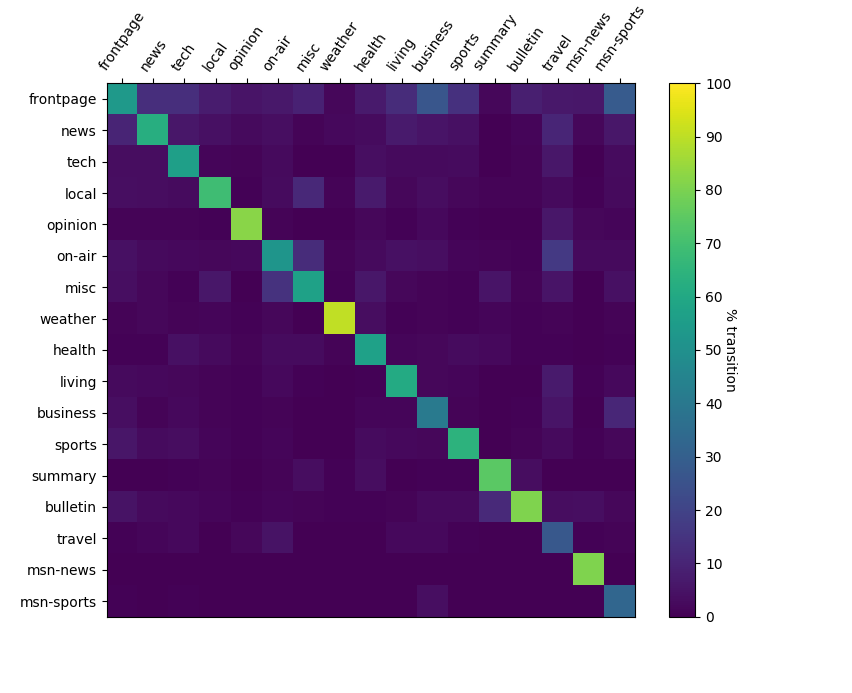
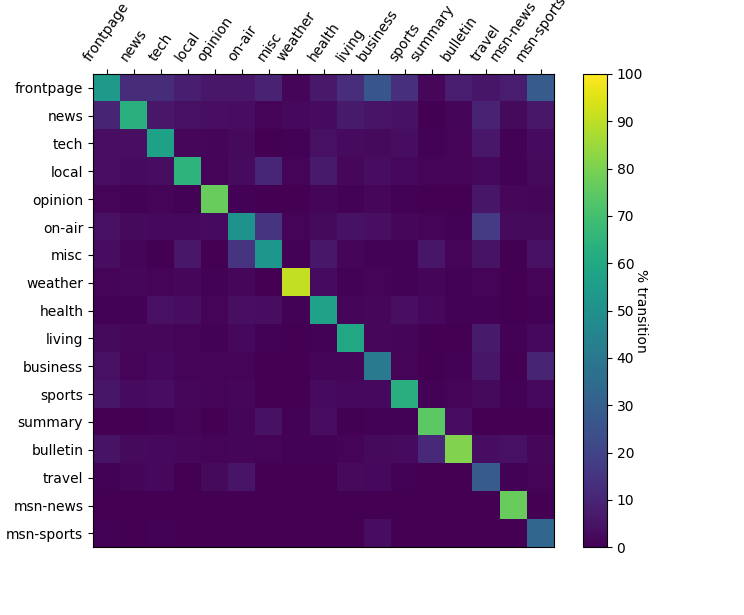
normalised data, added web entry category graphs

diff --git a/init_read.py b/init_read.py
@@ -5,17 +5,16 @@ import numpy as np
 from scipy import stats
 
 from readfile import readData
-from plot_request_len import plotLen, boxplotLen # plot user request lengths
-from singleRequest import single_request, plot_single_request_cat # single-page requests
+from plot_request_len import plotLen, boxplotLen, plot_requestLen # plot user request lengths
+from singleRequest import single_request, pie_singReqst_cat, singReqst_cat_adj # single-page requests
 from transitMatrix import gen_transitMat, transHeatMap # transition matrix of categories
-import categoryBin
+import categoryBin # page request count by category
+from categryData import webEntry
 
 pg_raw, pg_category = readData('msnbc990928.seq')
 
 ## Session length data
 sessLength = np.array ( [ len(i) for i in pg_raw ] )
-
-sessLength_stats = {'mean': np.mean(sessLength), 'median': np.median(sessLength), 'mode': stats.mode(sessLength), '75Pct': np.percentile(sessLength, 75), '90Pct': np.percentile(sessLength, 90), '95Pct': np.percentile(sessLength, 95), '99Pct': np.percentile(sessLength, 99), '99_5Pct': np.percentile(sessLength, 99.5)   }
 
 sessLength_stats = {'mean': np.mean(sessLength), 'median': np.median(sessLength), \
 'mode': stats.mode(sessLength), '75Pct': np.percentile(sessLength, 75), \
@@ -25,23 +24,42 @@ sessLength_stats = {'mean': np.mean(sessLength), 'median': np.median(sessLength)
 #plotLen(sessLength)
 #boxplotLen(sessLength)
 
-pg99Pct = [ i for i in pg_raw if len(i) < sessLength_stats["99Pct"] ]
+#pg99Pct = [ i for i in pg_raw if len(i) < sessLength_stats["95Pct"] ]
 
-## Singlflatten.e page requests
-one_category, one_cat_bins = single_request(pg99Pct)
-#plot_single_request_cat(one_cat_bins, pg_category)
+pg99Pct = [ i for i in pg_raw if (len(i) >= sessLength_stats["95Pct"] and len(i) < sessLength_stats["95Pct"])  ]
+
+
+sessLength99 = np.array ( [ len(i) for i in pg99Pct ] )
+
+sessLength99_stats = {'mean': np.mean(sessLength99), 'median': np.median(sessLength99), \
+'mode': stats.mode(sessLength99), '75Pct': np.percentile(sessLength99, 75), \
+'90Pct': np.percentile(sessLength99, 90), '95Pct': np.percentile(sessLength99, 95), \
+'99Pct': np.percentile(sessLength99, 99), '99_5Pct': np.percentile(sessLength99, 99.5)   }
+
+print sessLength99_stats
+
+'''
+boxplotLen(sessLength99)
+plot_requestLen(sessLength99)
 
 ## Page request by category
 category_bin = categoryBin.total_cat_bin(pg99Pct)
 rm_consec_bin, rm_consecut_pg = categoryBin.rm_consecut_bin(pg99Pct)
 rm_re_bin = categoryBin.rm_repeat_bin(pg99Pct)
-#categoryBin.plotCatBin(category_bin, rm_consec_bin, rm_re_bin, pg_category)
+categoryBin.plotCatBin(category_bin, rm_consec_bin, rm_re_bin, pg_category)
+
+## Single page requests
+one_category, one_cat_bins = single_request(pg99Pct)
+pie_singReqst_cat(one_cat_bins, pg_category)
+singReqst_cat_adj(one_cat_bins, rm_re_bin, pg_category)
 
 ## Category transition
-# transitMat = gen_transitMat(pg99Pct)
-# transHeatMap(transitMat, pg_category)
+transitMat = gen_transitMat(pg99Pct, 0)
+transHeatMap(transitMat, pg_category)
 
-transitMatRp = gen_transitMat(rm_consecut_pg)
+transitMatRp = gen_transitMat(rm_consecut_pg, 0)
 transHeatMap(transitMatRp, pg_category)
 
+webEntry(pg99Pct, rm_re_bin, pg_category)
+'''
 raw_input()

diff --git a/categoryBin.py b/categoryBin.py
@@ -3,16 +3,7 @@
 from itertools import groupby
 import numpy as np
 import matplotlib.pyplot as plt
-
-def flatten(seq,container=None):
-    if container is None:
-        container = []
-    for s in seq:
-        if hasattr(s,'__iter__'):
-            flatten(s,container)
-        else:
-            container.append(s)
-    return container
+from flatNestedList import flatten
 
 def total_cat_bin(pg99Pct):
     category_bin = np.bincount(flatten(pg99Pct))
@@ -32,17 +23,17 @@ def rm_repeat_bin(pg99Pct):
     return rm_re_bin
 
 def plotCatBin(category_bin, rm_consec_bin, rm_re_bin, pg_category):
-    middleDiff = rm_consec_bin - rm_re_bin
-    topDiff = category_bin - rm_consec_bin
-    idx = np.arange(17)
+    middleDiff = (rm_consec_bin - rm_re_bin)/ sum(category_bin)
+    topDiff = category_bin - rm_consec_bin / sum(category_bin)
+    idx = range(17)
     
     plott = plt.figure()
-    plot1 = plt.bar(idx, rm_re_bin, width = 0.4, color = (0.254902, 0.411765, 0.882353) )
+    plot1 = plt.bar(idx, rm_re_bin/sum(category_bin), width = 0.4, color = (0.254902, 0.411765, 0.882353) )
     plot2 = plt.bar(idx, middleDiff, bottom = rm_re_bin, width = 0.4, color = (0.443137, 0.776471, 0.443137) )
     plot3 = plt.bar(idx, topDiff, bottom = middleDiff+rm_re_bin, width = 0.4, color = (1, 0.843137, 0) )
     
-    plt.title('Page Request Counts by Category')
-    plt.ylabel('Occurence / page')
+    plt.title('Page Request by Category')
+    plt.ylabel('Percentage of total page counts')
     plt.xticks(idx, pg_category, rotation = 55)
     plt.legend( [plot3,plot2,plot1], ['Consecutive','Repeated','Per user'] )
     

diff --git a/abnormPG.py b/abnormPG.py
@@ -1,0 +1,36 @@
+#!/usr/bin/env python
+# coding=UTF-8
+
+import numpy as np
+from scipy import stats
+
+from readfile import readData
+from plot_request_len import boxplotLen, plot_requestLen
+import categoryBin 
+from transitMatrix import gen_transitMat, transHeatMap 
+
+pg_raw, pg_category = readData('msnbc990928.seq')
+
+sessLength = np.array ( [ len(i) for i in pg_raw ] )
+sessLength_stats = {'mean': np.mean(sessLength), 'median': np.median(sessLength), \
+'mode': stats.mode(sessLength), '75Pct': np.percentile(sessLength, 75), \
+'90Pct': np.percentile(sessLength, 90), '95Pct': np.percentile(sessLength, 95), \
+'99Pct': np.percentile(sessLength, 99), '99_5Pct': np.percentile(sessLength, 99.5)   }
+
+pg_abnorm = [ i for i in pg_raw if (len(i) >= sessLength_stats["95Pct"] and len(i) < sessLength_stats["99Pct"])  ]
+
+lenAbnorm = np.array ( [ len(i) for i in pg_abnorm ] )
+
+lenAbnorm_stats = {'mean': np.mean(lenAbnorm), 'max': np.amax(lenAbnorm), 'min': np.amin(lenAbnorm)  }
+
+# boxplotLen(lenAbnorm)
+
+category_bin = categoryBin.total_cat_bin(pg_abnorm)
+rm_consec_bin, rm_consecut_pg = categoryBin.rm_consecut_bin(pg_abnorm)
+rm_re_bin = categoryBin.rm_repeat_bin(pg_abnorm)
+# categoryBin.plotCatBin(category_bin, rm_consec_bin, rm_re_bin, pg_category)
+
+transitMat = gen_transitMat(pg_abnorm, 0)
+transHeatMap(transitMat, pg_category)
+
+raw_input()

diff --git a/singleRequest.py b/singleRequest.py
@@ -9,12 +9,22 @@ def single_request(pg_raw):
     one_cat_bins = np.delete(one_cat_bins, 0)
     return one_category, one_cat_bins
 
-def plot_single_request_cat(one_cat_bins, pg_category):
+def pie_singReqst_cat(one_cat_bins, pg_category):
     one_cat_bins.tolist
-    plot1 = plt.figure()
-    plt.bar(range(len(one_cat_bins)), one_cat_bins, width = 0.4, align = 'center', color = (0.254902, 0.411765, 0.882353) )
-    plt.xticks(range(len(pg_category)), pg_category, rotation = 55)
-    plt.xlabel("Page Category")
-    plt.ylabel("Number of Users")
+    fig, ax = plt.subplots()
+    ax.pie( one_cat_bins, labels = pg_category, autopct='%1.1f%%',  shadow=False, startangle=90 )
+    ax.axis('equal')
     plt.title("Single-Page-Request Counts by Page Categories")
-    plot1.show()
+    plt.show()
+
+def singReqst_cat_adj(one_cat_bins, rm_re_bin, pg_category):
+    data = np.true_divide(one_cat_bins, rm_re_bin)
+    plot1 = plt.figure()
+    idx = range(17)
+    plt.bar(idx, data*100, width = 0.4, color = (0.254902, 0.411765, 0.882353))
+    plt.xlabel('Categories')
+    plt.ylabel('Percentage of User / %')
+    plt.title("Percentage Single-Page-Request by Page Categories")
+    plt.xticks(idx, pg_category, rotation = 55)
+
+    plt.show()

diff --git a/transitMatrix.py b/transitMatrix.py
@@ -13,26 +13,17 @@ def pairwise(iterable):
     next(b, None)
     return izip(a, b)
 
-def gen_transitMat(pg99Pct):
+def gen_transitMat(pg99Pct, N):
     transitMat = np.zeros( (17,17) )
-    
-    '''
-    T0x = [ x[0] for x in [ i for i in pg99Pct ] ]
-    transitMat[0:,0] = np.bincount(T0x)
-
-    Tx0 = [ x[-1] for x in [ i for i in pg99Pct ] ]
-    transitMat[0,0:] = np.bincount(Tx0)
-    '''
 
     for line in pg99Pct:
         for i, j in pairwise(line):
             transitMat[j-1][i-1] = transitMat[j-1][i-1] + 1 
     
-    transitMat_sum = transitMat.sum(axis=0, keepdims=True)
+    transitMat_sum = transitMat.sum(axis = N, keepdims=True)
     transitMat = np.divide(transitMat, transitMat_sum, out=np.zeros_like(transitMat), where=transitMat_sum!=0)*100
    
-    np.savetxt("transitMat.csv", transitMat, delimiter=",")
-    np.savetxt("transitMat_sum.csv", transitMat_sum, delimiter=",")
+    #np.savetxt("transitMat1_rev.csv", transitMat, delimiter=",")
 
     return transitMat
 

diff --git a/categryData.py b/categryData.py
@@ -1,0 +1,23 @@
+#!/usr/bin/env python
+
+import numpy as np
+import matplotlib.pyplot as plt
+
+def webEntry(pg99Pct, rm_re_bin, pg_category):
+    first_Cat = [ x[0] for x in [ i for i in pg99Pct if len(i) > 1] ]
+    firstCat_bin = np.bincount(first_Cat)
+    firstCat_bin = np.delete(firstCat_bin, 0)
+
+    data = np.true_divide(firstCat_bin, rm_re_bin)
+    
+    idx = np.arange(17)
+    plot1 = plt.figure()
+    plt.bar(idx, data*100, width = 0.4, align = 'center', color = (0.254902, 0.411765, 0.882353) )
+    plt.title("Percentage Request as Website Entrance by Page Category")
+    plt.xlabel('Category')
+    plt.ylabel('Percentage of User / %')
+    plt.xticks(idx, pg_category, rotation = 55)
+    plot1.show()
+
+#def cat_data(pg99Pct):
+    first_Cat = [ x[0] for x in [ i for i in pg99Pct if len(i) > 1] ]

diff --git a/plot_request_len.py b/plot_request_len.py
@@ -1,5 +1,6 @@
 #!/usr/bin/env python
 
+import numpy as np
 import matplotlib.pyplot as plt
 
 def plotLen(sessLength):
@@ -17,3 +18,17 @@ def boxplotLen(sessLength):
     plt.ylabel('')
     plt.xlabel('User Request Length')
     plot2.show()
+
+def plot_requestLen(sessLength):
+    sessLengthsize = np.bincount(sessLength)
+    sessLengthsize = np.delete(sessLengthsize, [range(0,10)] )
+  
+    plot3 = plt.figure()
+    plt.bar(range(10,sessLengthsize.size+10), sessLengthsize, width = 0.4, align = 'center', color = (0.254902, 0.411765, 0.882353) )
+    plt.title("User Request Length Count")
+    plt.xlabel('User Request Length')
+    plt.ylabel('Length Occurrence')
+    plt.xticks( range(10,sessLengthsize.size+10) )
+    plot3.show()
+    
+    

diff --git a/flatNestedList.py b/flatNestedList.py
@@ -1,0 +1,22 @@
+#!/usr/bin/env python
+
+def flatten(seq,container=None):
+    if container is None:
+        container = []
+    for s in seq:
+        if hasattr(s,'__iter__'):
+            flatten(s,container)
+        else:
+            container.append(s)
+    return container
+
+def flat0sep(seq,container=None):
+    if container is None:
+        container = []
+    for s in seq:
+        if hasattr(s,'__iter__'):
+            container.append(0)
+            flatten(s,container)
+        else:
+            container.append(s)
+    return container
